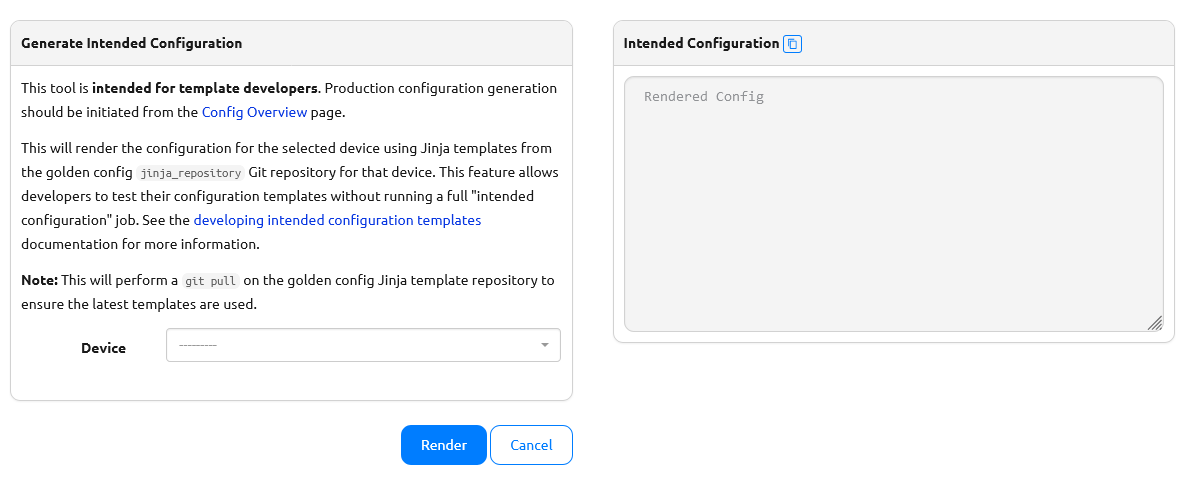
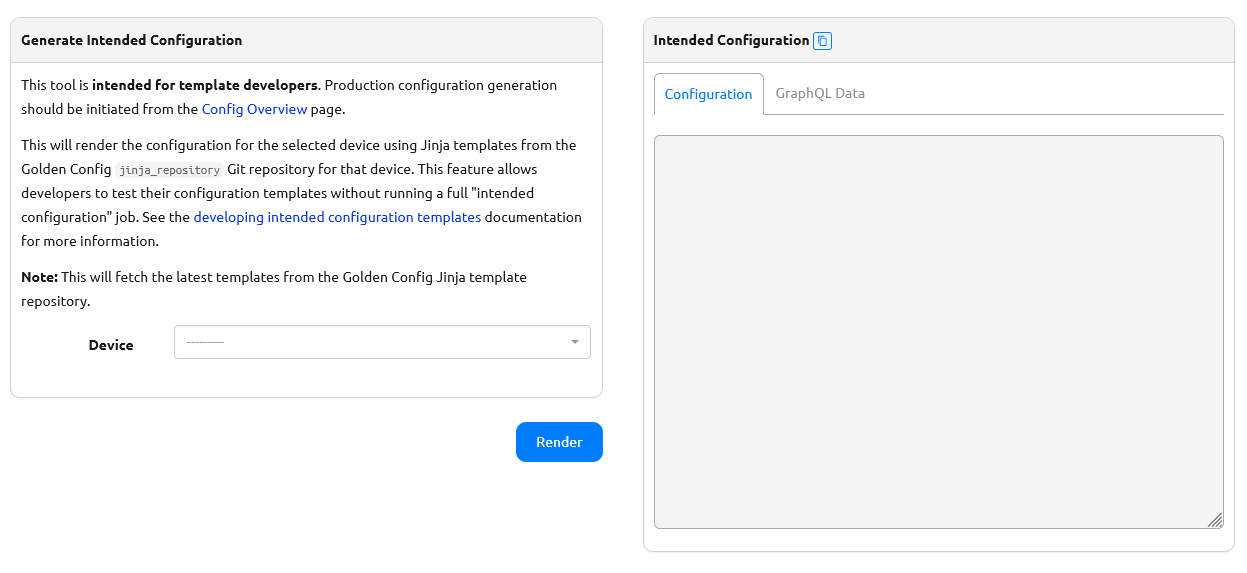
Added GraphQL output to the "Generate Intended Config" view.

diff --git a/nautobot_golden_config/templates/nautobot_golden_config/generate_intended_config.html b/nautobot_golden_config/templates/nautobot_golden_config/generate_intended_config.html
@@ -8,6 +8,23 @@
     .button-container {
         margin-bottom: 24px;
     }
+    pre:has(code) {
+        padding: 0;
+    }
+    pre code {
+        display: block;
+        height: 50vh;
+        overflow: auto;
+        resize: vertical;
+        word-wrap: normal;
+        overflow-wrap: normal;
+        word-break: normal;
+        white-space: pre;
+        padding: 11.5px;
+    }
+    .nav-tabs li.disabled a {
+        pointer-events: none;
+    }
 </style>
 {% endblock extra_styles %}
 
@@ -23,7 +40,7 @@
                     <a href="{% url 'plugins:nautobot_golden_config:goldenconfig_list' %}">Config Overview</a> page.
                     </p>
                     <p>
-                    This will render the configuration for the selected device using Jinja templates from the golden config <code>jinja_repository</code>
+                    This will render the configuration for the selected device using Jinja templates from the Golden Config <code>jinja_repository</code>
                     Git repository for that device.
                     This feature allows developers to test their configuration templates without running a full "intended configuration" job. See the
                     <a href="{% static 'nautobot_golden_config/docs/user/app_feature_intended.html' %}#developing-intended-configuration-templates">
@@ -32,7 +49,7 @@
                     </p>
                     <p>
                     <strong>Note:</strong>
-                    This will perform a <code>git pull</code> on the golden config Jinja template repository to ensure the latest templates are used.
+                    This will fetch the latest templates from the Golden Config Jinja template repository.
                     </p>
                     {% render_field form.device %}
                     {% render_field form.git_repository %}
@@ -40,19 +57,29 @@
             </div>
             <div class="button-container text-right">
                 <button type="submit" class="btn btn-primary">Render</button>
-                <a href="{{ return_url }}" class="btn btn-default">Cancel</a>
             </div>
         </div>
         <div class="col-lg-6 col-md-6">
             <div class="panel panel-default">
                 <div class="panel-heading">
                     <strong>Intended Configuration</strong>
-                    <button type="button" class="btn btn-inline btn-default copy-rendered-config" data-clipboard-target="#rendered_config">
+                    <button type="button" class="btn btn-inline btn-default copy-rendered-config" data-clipboard-target="#id_rendered_config_tabs .active pre code">
                         <span class="mdi mdi-content-copy"></span>
                     </button>
                 </div>
                 <div class="panel-body">
-                    <textarea readonly="readonly" cols="40" rows="10" class="form-control" placeholder="Rendered Config" id="rendered_config"></textarea>
+                    <ul class="nav nav-tabs" role="tablist">
+                        <li role="presentation" class="active" id="id_intended_config_tab"><a href="#id_intended_config_tab_content" aria-controls="id_rendered_config_tabs" role="tab" data-toggle="tab">Configuration</a></li>
+                        <li role="presentation" class="disabled" id="id_graphql_data_tab"><a href="#id_graphql_data_tab_content" aria-controls="id_graphql_data_tab_content" role="tab" data-toggle="tab">GraphQL Data</a></li>
+                    </ul>
+                    <div class="tab-content" id="id_rendered_config_tabs">
+                        <div class="tab-pane active" id="id_intended_config_tab_content">
+                            <pre><code id="id_rendered_config_code_block"></code></pre>
+                        </div>
+                        <div class="tab-pane" id="id_graphql_data_tab_content">
+                            <pre><code class="language-json" id="id_graphql_data_code_block"></code></pre>
+                        </div>
+                    </div>
                 </div>
             </div>
         </div>
@@ -71,10 +98,20 @@
             event.preventDefault(); // Prevent default form submission
 
             try {
-                const rendered_config = document.getElementById("rendered_config");
-                rendered_config.innerHTML = "Loading...";
+                const rendered_config_code_block = document.getElementById("id_rendered_config_code_block");
                 const device = document.getElementById("id_device").value;
                 const url = "{% url 'plugins-api:nautobot_golden_config-api:generate_intended_config' %}";
+                const graphql_data_code_block = document.getElementById("id_graphql_data_code_block");
+                const graphql_data_tab = document.getElementById("id_graphql_data_tab");
+
+                rendered_config_code_block.innerHTML = "Loading...";
+
+                // switch to the intended config tab and disable the graphql data tab
+                $("#id_intended_config_tab a").tab("show");
+                graphql_data_tab.classList.add("disabled");
+                graphql_data_tab.classList.remove("active");
+
+                // fetch the intended config
                 const data = {device_id: device};
                 const query_params = new URLSearchParams(data).toString();
                 const response = await fetch(url + "?" + query_params, {
@@ -84,12 +121,21 @@
                 const responseData = await response.json();
                 if (!response.ok) {
                     const msg = responseData.detail ? responseData.detail : response.statusText;
-                    rendered_config.innerHTML = sanitize(`An error occurred:\n\n${msg}`);
+                    rendered_config_code_block.innerHTML = sanitize(`An error occurred:\n\n${msg}`);
                 } else {
-                    rendered_config.innerHTML = sanitize(responseData.intended_config);
+                    // populate the rendered config
+                    rendered_config_code_block.innerHTML = sanitize(responseData.intended_config);
+
+                    // populate and syntax highlight the graphql data
+                    graphql_data_code_block.innerHTML = JSON.stringify(responseData.graphql_data, null, 4);
+                    delete graphql_data_code_block.dataset.highlighted;
+                    hljs.highlightElement(graphql_data_code_block);
+
+                    // enable the graphql data tab
+                    id_graphql_data_tab.classList.remove("disabled");
                 }
             } catch (error) {
-                rendered_config.innerHTML = sanitize(`An error occurred:\n\n${error.message}`);
+                rendered_config_code_block.innerHTML = sanitize(`An error occurred:\n\n${error.message}`);
             }
         }
     </script>

diff --git a/nautobot_golden_config/api/views.py b/nautobot_golden_config/api/views.py
@@ -253,14 +253,14 @@ class GenerateIntendedConfigView(NautobotAPIVersionMixin, GenericAPIView):
 
         filesystem_path = self._get_jinja_template_path(settings, device, git_repository)
 
-        status_code, context = graph_ql_query(request, device, settings.sot_agg_query.query)
+        status_code, graphql_data = graph_ql_query(request, device, settings.sot_agg_query.query)
         if status_code == status.HTTP_200_OK:
             try:
                 intended_config = self._render_config_nornir_serial(
                     device=device,
                     jinja_template=filesystem_path.name,
                     jinja_root_path=filesystem_path.parent,
-                    graphql_data=context,
+                    graphql_data=graphql_data,
                 )
             except Exception as exc:
                 raise GenerateIntendedConfigException(f"Error rendering Jinja template: {exc}") from exc
@@ -268,6 +268,7 @@ class GenerateIntendedConfigView(NautobotAPIVersionMixin, GenericAPIView):
                 data={
                     "intended_config": intended_config,
                     "intended_config_lines": intended_config.split("\n"),
+                    "graphql_data": graphql_data,
                 },
                 status=status.HTTP_200_OK,
             )

diff --git a/nautobot_golden_config/api/serializers.py b/nautobot_golden_config/api/serializers.py
@@ -131,3 +131,4 @@ class GenerateIntendedConfigSerializer(serializers.Serializer):  # pylint: disab
 
     intended_config = serializers.CharField(read_only=True)
     intended_config_lines = serializers.ListField(read_only=True, child=serializers.CharField())
+    graphql_data = serializers.JSONField(read_only=True)

diff --git a/docs/user/app_feature_intended.md b/docs/user/app_feature_intended.md
@@ -45,7 +45,7 @@ curl -s -X GET \
     http://nautobot/api/plugins/golden-config/generate-intended-config/?device_id=231b8765-054d-4abe-bdbf-cd60e049cd8d
 ```
 
-The returned response will contain the rendered configuration for the specified device. The web UI provides a simple form to input the device and displays the rendered configuration when submitted.
+The returned response will contain the rendered configuration for the specified device and the GraphQL data that was used. The web UI provides a simple form to input the device and displays the rendered configuration when submitted.
 
 ![Intended Configuration Web UI](../images/generate-intended-config-ui.png#only-light)
 ![Intended Configuration Web UI](../images/generate-intended-config-ui-dark.png#only-dark)
